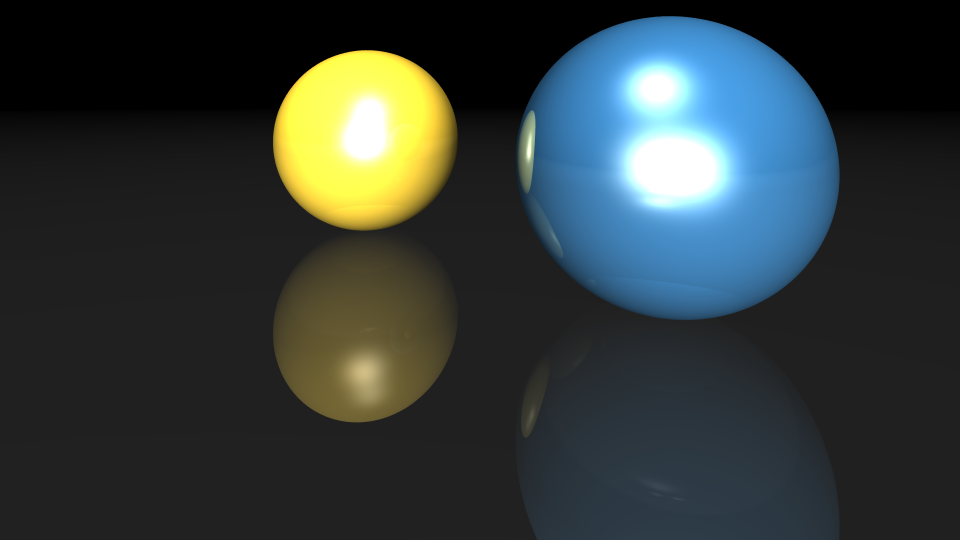
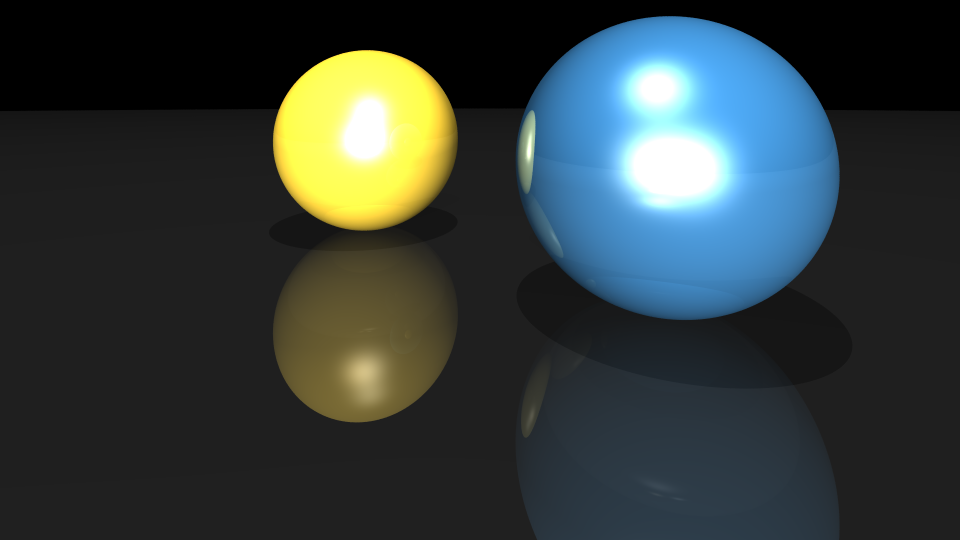
Add files via upload

Changed region(s): [[0.4062, 0.1185, 0.5, 0.4148], [0.2812, 0.237, 0.3125, 0.3852], [0.3438, 0.3852, 0.375, 0.4148]]

diff --git a/engine.py b/engine.py
@@ -67,15 +67,19 @@ class RenderEngine:
                 dist_min = dist
                 obj_hit = obj
         return (dist_min, obj_hit)
-
+    
     def color_at(self, obj_hit, hit_pos, normal, scene):
         material = obj_hit.material
         obj_color = material.color_at(hit_pos)
         to_cam = scene.camera - hit_pos
         specular_k = 50
-        color = material.ambient * Color.from_hex("#000000")
+        color = material.ambient * obj_color
         for light in scene.lights:
             to_light = Ray(hit_pos, light.position - hit_pos)
+            shadow_ray = Ray(hit_pos + normal * self.MIN_DISPLACE, light.position - hit_pos)
+            dist_to_light, _ = self.find_nearest(shadow_ray, scene)
+            if dist_to_light is not None and dist_to_light < to_light.length():
+                continue
             color += (
                 obj_color
                 * material.diffuse
@@ -88,3 +92,4 @@ class RenderEngine:
                 * max(normal.dot_product(half_vector), 0) ** specular_k
             )
         return color
+

diff --git a/test_sphere.py b/test_sphere.py
@@ -14,7 +14,7 @@ OBJECTS = [
         Point(0, 10000.5, 1),
         10000.0,
         MirrorMaterial(
-            color=Color.from_hex("#FFFFFF"), ambient=0.2, reflection=0.2, diffuse=0.1
+            color=Color.from_hex("#606060"), ambient=0.2, reflection=0.2, diffuse=0.1
         ),
     ),
     Sphere(

diff --git a/ray.py b/ray.py
@@ -2,3 +2,6 @@ class Ray:
     def __init__(self, origin, direction):
         self.origin = origin
         self.direction = direction.normalize()
+        
+    def length(self):
+        return self.direction.magnitude() 
